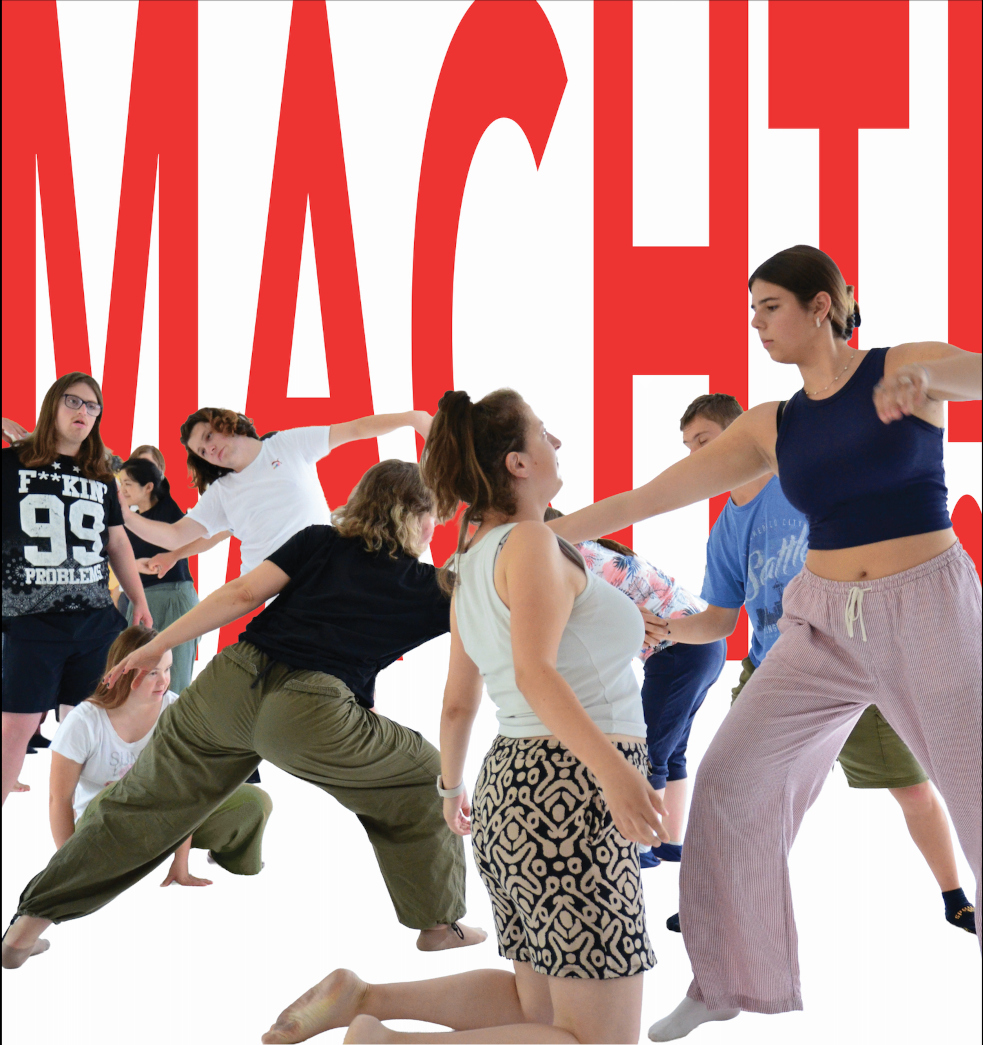
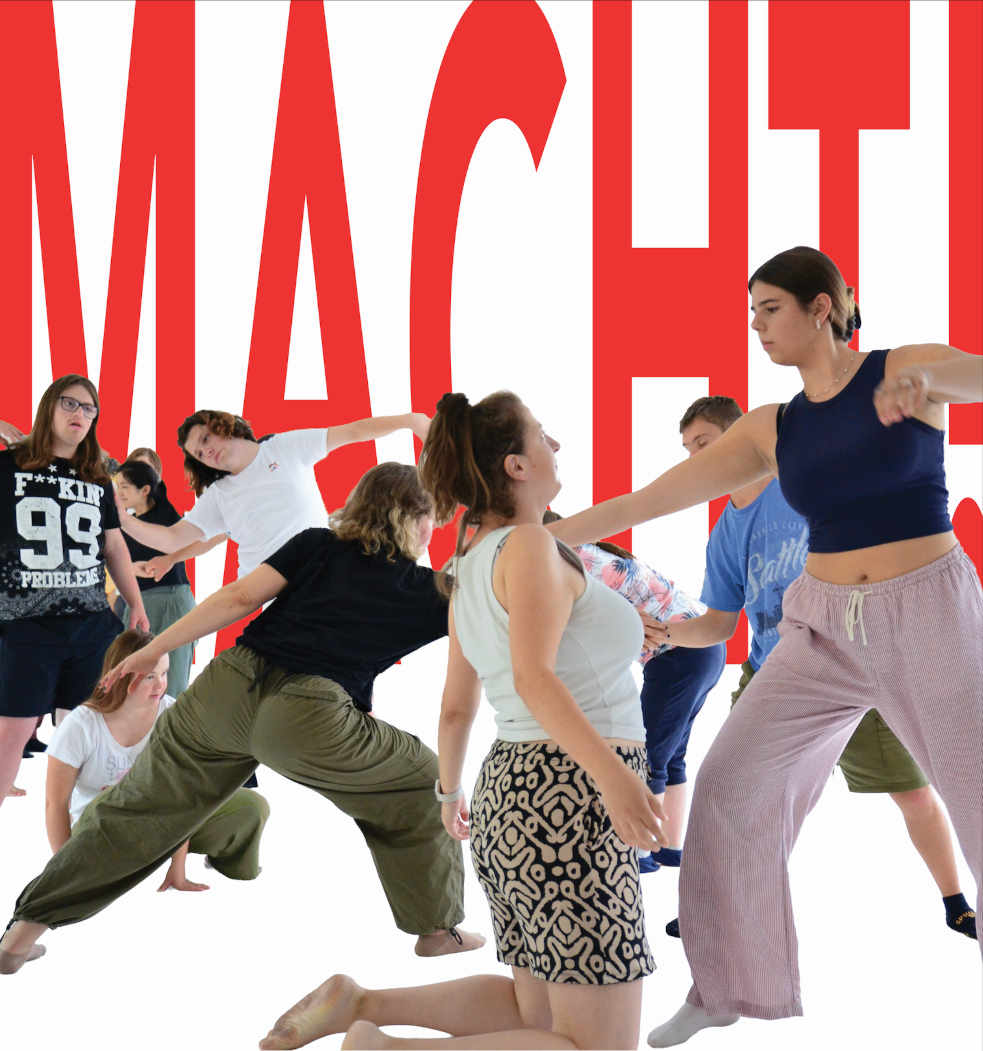
Adds MACHT! teaser: Remove black lines on image, image top and heading on same line

diff --git a/index.html b/index.html
@@ -152,7 +152,7 @@ Sie kooperiert mit dem Kinder- und Jugendtheater zwinger3 Heidelberg für Tanzpr
           <div class="content-left size-2-3">
             <div class="image-container-0">
               <img src="images/macht.jpg" border="0" alt="" title=""
-                style="width: 95%" />
+                style="width: 95%;padding-top:3px;" />
             </div><!-- /image-container -->
             <!--
              <div class="videos">
